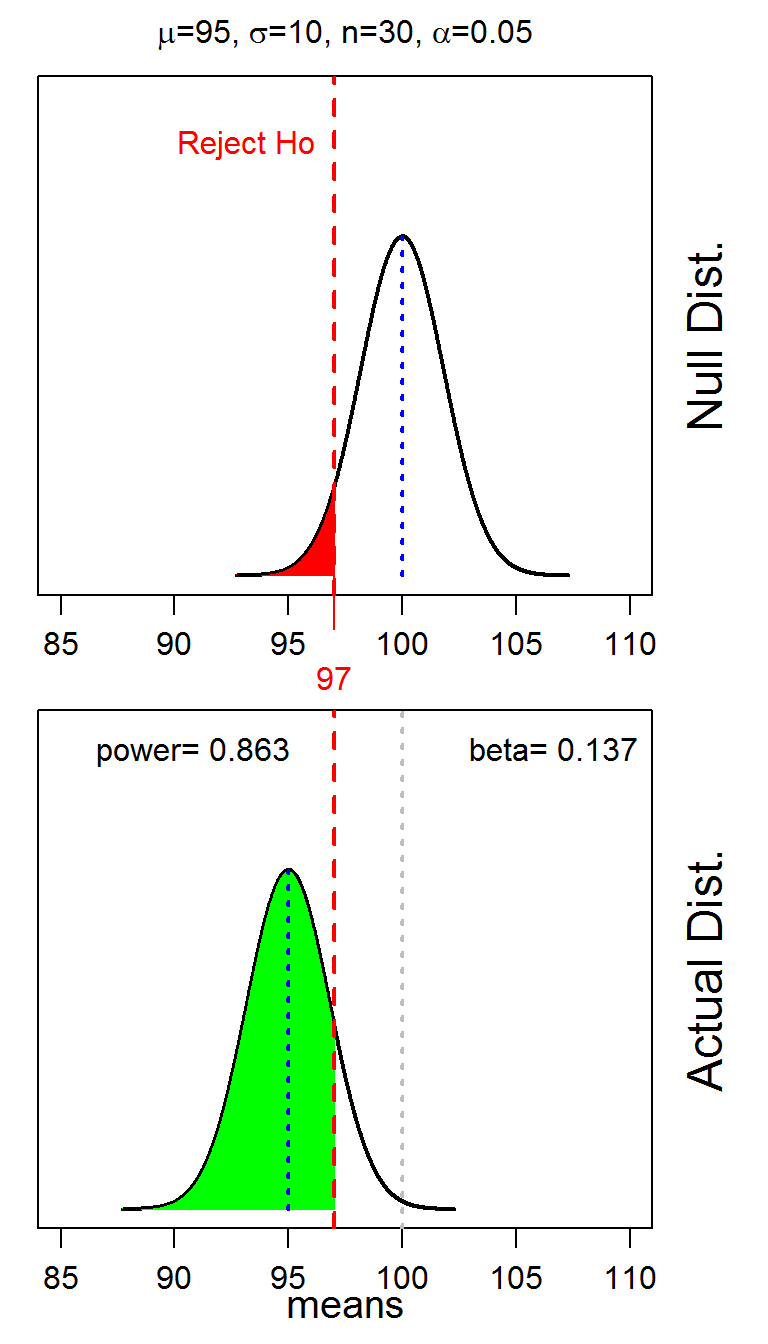
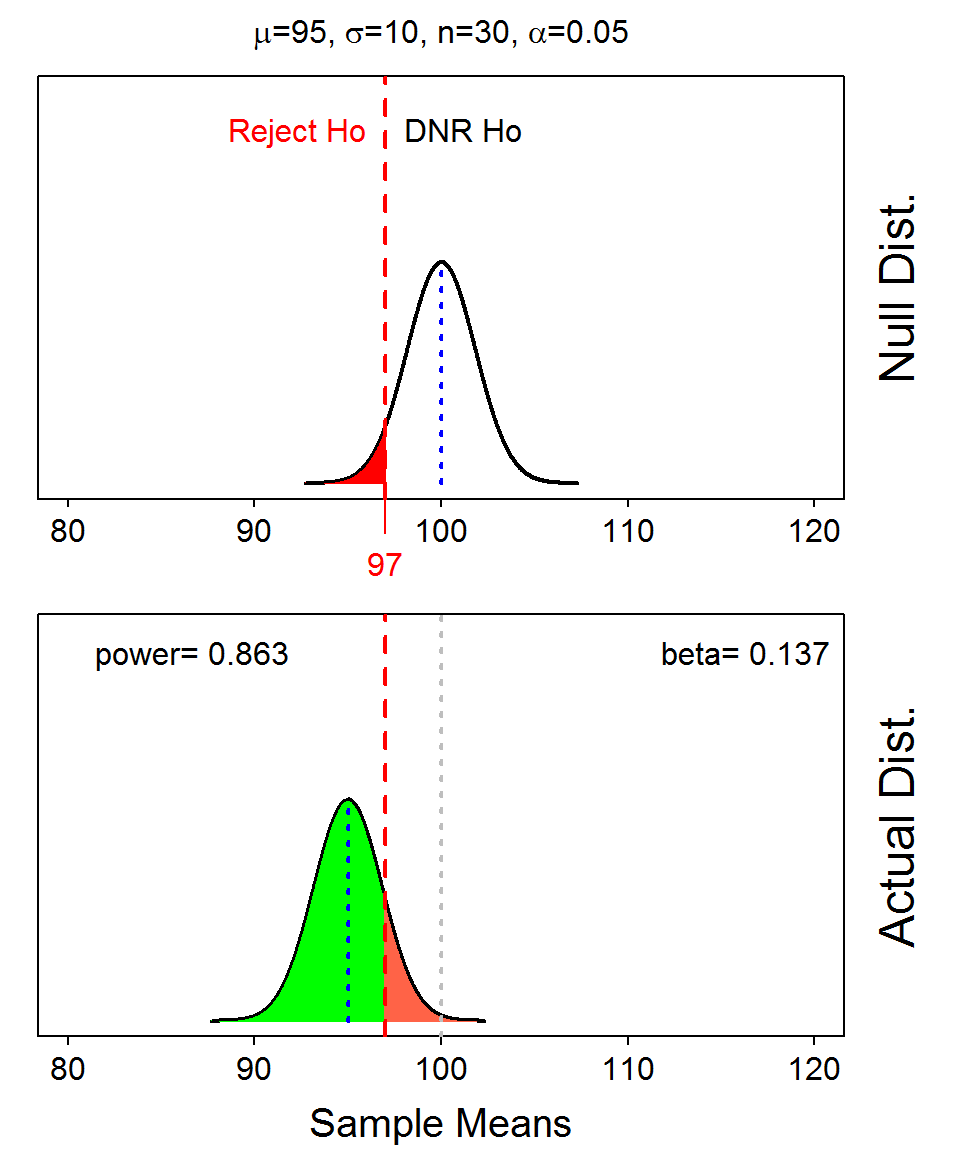
again

diff --git a/modules/Hypothesis_Testing/CE2.html b/modules/Hypothesis_Testing/CE2.html
@@ -20,9 +20,10 @@ css: "/css/modules.css"
 </div>
 <div id="understanding-power-relationships" class="section level2">
 <h2>Understanding Power Relationships</h2>
-<p><img src="../zimgs/computer-1.jpg" alt="Simulations" class="img-right"> The probability of a type II error (β) and power cannot be computed because the true population mean (μ<sub>a</sub>) is not known. However, β and power are affected by α, n, σ, and “how wrong” the null hypothesized value is. Simulations with known populations can be used to understand the relationships between β, power, and these other values. Because α and n are chosen by the statistician, decisions can be made that will affect the values of β and power (though we will never know the actual values of &amp;beta and power).</p>
-<p>The <code>powerSim()</code> function (with no arguments) from <code>NCStats</code> provides an efficient method to perform these simulations. For example, <code>powerSim()</code> produced the plots shown below. create a known population, repeatedly sample (5000 times) from that population, and summarize the resulting simulated sampling distribution. The histogram on the left is a known population distribution with the parameters (μ&amp;σ) shown. The histogram on the right is a simulated sampling distribution; i.e., the distribution of means from 5000 independent samples of size n taken from the known population. In RStudio, this plot will have a gear icon in the upper-left corner that will open a dialog box that allows you to modify n. Additionally, you can control two shape parameters that will alter the known population distribution.</p>
-<p><img src="CE2_files/figure-html/unnamed-chunk-3-1.png" title="" alt="" width="384" /></p>
+<p><img src="../zimgs/computer-1.jpg" alt="Simulations" class="img-right"> The probability of a type II error (β) and power cannot be computed because the true population mean (μ<sub>a</sub>) is not known. However, β and power are affected by α, n, σ, and “how wrong” the null hypothesized value is. Simulations with known populations can be used to understand the relationships between β, power, and these other values. Because α and n are chosen by the statistician, decisions can be made that will affect the values of β and power (though we will never know the actual values of β and power).</p>
+<p>The <code>powerSim()</code> function (with no arguments) from <code>NCStats</code> provides an efficient method to perform these simulations. For example, <code>powerSim()</code> produced the plots shown below. The top plot is the “null distribution” or the sampling distribution of the sample means assuming that H<sub>0</sub>: μ=100 is true (and σ=10 and n=30). The rejection region that is defined by α=0.05 and assuming that H</sub>A</sub>: μ&lt;100 (i.e., lower-tailed) is shown on the null distribution as the red shaded area bound by the vertical red line. Thus, any sample mean in this shaded area would result in a decision to reject H<sub>0</sub>.</p>
+<p><img src="CE2_files/figure-html/unnamed-chunk-3-1.png" title="" alt="" width="480" /></p>
+<p>The lower plot is the “actual distribtion” or the sampling distribution that would result if μ=95 (in this example) and σ=10 and n=30. The rejection region is projected onto this plot with the red vertical line. Because μ=95 is different than μ<sub>0</sub>=100, these graphs represent the situation where the H<sub>0</sub> is incorrect. Rejecting H<sub>0</sub> in this situation is a correct decision and the probability of making that decision is power. Power is shown on the actual distribution with the green shaded area and is equal to the value shown in the upper corner (left corner in this case). A type II error occurs if the H<sub>0</sub> is not rejected. The probability of making this errors is shown by the The area in this distribution that is in the rejection region</p>
 <hr />
 <div class="text-center">
 <ul class="pagination pagination-lg">
